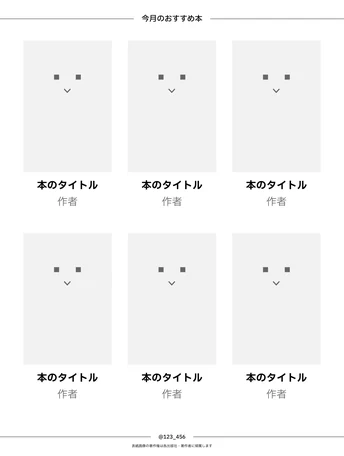
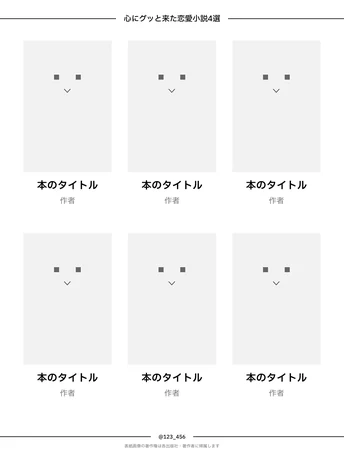
感想の有無のサムネイルを新しい版に差し替える
Claude-Session: https://claude.ai/code/session_01HtqqrzTAM8yHvqj7o7G1pe

diff --git a/docs/HANDOFF.md b/docs/HANDOFF.md
@@ -96,7 +96,7 @@
 - 未入力の本・テーマ・ユーザー名・書影は、プレビュー・カラー選択・書き出しのどれでも空白（2026-10-09 にユーザーの希望で変更。以前は画面上のプレビューでだけ見本の文字・画像を入れていた）。見本を入れる仕組み（`renderRecap` の `fillEmpty`・`SAMPLE`）は残してあるが、今はどこからも使っていない
 - テンプレートを感想なしに変えると感想は本当に削除する（感想ありに戻しても戻らない）
 - 折り返しは `Intl.Segmenter` で単語単位（Figma の見本と改行位置が違うことがあるが、ユーザー了承済み）
-- 出力画像の本のタイトルは SemiBold（600）。2026-10-14 に Bold（700）から変更（ユーザーの希望）。感想の有無のサムネイル（`public/images/template-*`、Figma の書き出し）は Bold のまま（作品数の選択の `count-*` は 2026-10-26 に新しい版へ差し替え済み）
+- 出力画像の本のタイトルは SemiBold（600）。2026-10-14 に Bold（700）から変更（ユーザーの希望）。テンプレート設定の見本（`count-*`・`template-*`）も 2026-10-26 に新しい版（SemiBold）へ差し替え済み
 - 投稿情報の説明図（2026-10-14 変更）：見本画像をユーザー支給の `post-info-list-4.png`（旧 `post-info-sample.png`、195×260）に差し替え。説明図の上下の間隔は 35px（入力欄との間・ボタンとの間。以前は 51px・49px）で、ボタンの位置は差し替え前より 2px 上。以前は選んだテンプレートの見本（count-*.png、174×232）を出していたが、今はテンプレートによらず同じ画像。指す線は Figma の線画像（annotation-line-*.svg、削除済み）から、SVG の直線 2 本に変更（`PostInfoStep.tsx`、テーマ：(138,11)→(243,29)、ユーザー名：(118,249)→(223,232)。説明図の左上が原点）
 - 出力画像の著作権表記は 13px・#666666（2026-10-19 に 11px から、2026-10-26 に色を #7e7c7d から変更。全カラー共通、`render/colors.ts` の `COPYRIGHT_COLOR`）。文字の中心の高さ（`render/layout.ts` の `TEXT.copyright.centerY`）は変えていない。テンプレート設定の見本画像（Figma の書き出し）は 11px のまま
 - テーマ・ユーザー名に付く罫線は 2px（`render/layout.ts` の `RULE_WIDTH`）
@@ -133,7 +133,7 @@
   - `apple-touch-icon.png`（180）・`icon-192.png`・`icon-512.png` はまだ前のデザイン（icon.svg から書き出したもの）。**新しいデザインの大きい画像（SVG か 512px 以上の PNG）をもらったら差し替える**
   - `site.webmanifest`：名前「わたしの本棚メーカー」、短い名前「本棚メーカー」、`display: browser`（ホーム画面に追加してもブラウザで開く。standalone にすると iPhone の共有・戻る操作の動きが変わるので避けた）
   - OGP：タイトル・説明「テーマに沿って選んだ本を、1枚の画像にまとめて保存・共有できるウェブアプリ」・画像（`ogp.png`、1200×630、絶対 URL）・`twitter:card` は `summary_large_image`。URL を変えたら og:url・og:image も直す
-- 作品数の選択の見本（`count-*.webp`）も 2026-10-26 に、投稿情報の説明図と同じ支給画像（テーマ「心にグッと来た恋愛小説4選」、タイトル SemiBold、著作権表記 13px・#666666）に差し替え。以前の Figma の書き出し（テーマ「今月のおすすめ本」）は使っていない。感想の有無のサムネイル（`template-*.webp`）は前の版のまま
+- 作品数の選択の見本（`count-*.webp`）も 2026-10-26 に、投稿情報の説明図と同じ支給画像（テーマ「心にグッと来た恋愛小説4選」、タイトル SemiBold、著作権表記 13px・#666666）に差し替え。以前の Figma の書き出し（テーマ「今月のおすすめ本」）は使っていない。感想の有無のサムネイル（`template-list.webp`＝リスト型 4 冊、`template-grid.webp`＝グリッド型 6 冊の見本）も同じ日に差し替え
 - 見本画像の読み込みを軽く（2026-10-26）：`count-*`・`template-*`・`post-info-*` を PNG から WebP に（合計約 1.6MB → 約 0.43MB）。作品数の選択の見本 10 枚は「感想の有無」の画面を開いたときに先読み（`lib/templateImages.ts` の `preloadBookCountThumbnails`）
 - モーダルが重なったとき（テンプレート変更の上の確認、入力モーダルの上の画像エラー）、Esc は一番上だけを閉じる（`components/overlayStack.ts`）
 
